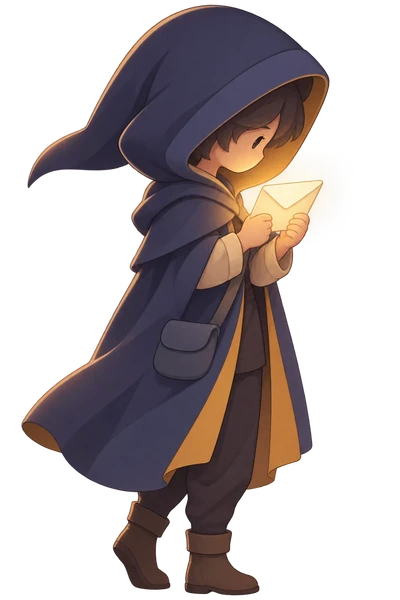
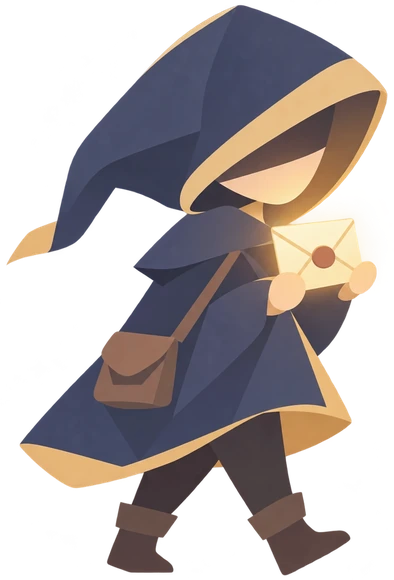
New traveller illustration; slower portal title
- Traveller: second illustration (walking pose, face in the hood's
  shadow), cropped to the figure, 394x580 webp; letter glow and wax seal
  aligned to the drawn letter and seal; curtain shadow from the same image.
- Portal: the title gathers over 1.8 s (was 0.65 s), ENTER fades in after.

diff --git a/ui/threshold.html b/ui/threshold.html
@@ -84,15 +84,15 @@
     </g>
 
     <!-- The traveller's shadow on the curtain: light from the front, low and to the left; larger, behind and up to the right. -->
-    <g class="th-shadow" opacity=".17" filter="url(#thShadowF)"><image href="art/traveller.webp" x="560" y="114" width="380" height="570"/></g>
+    <g class="th-shadow" opacity=".17" filter="url(#thShadowF)"><image href="art/traveller.webp" x="542" y="131" width="374" height="551"/></g>
     <path class="th-floorshadow" d="M520 820 L604 820 L770 640 L700 640 Z" fill="#2B2825" opacity=".2" filter="url(#thSoft)"/>
 
     <!-- The traveller, lit from the front, holding the letter. When the door opens, they walk to it. -->
     <g class="th-walker"><g class="th-bobber"><g class="th-tilt">
-      <image href="art/traveller.webp" x="452" y="529" width="200" height="300"/>
-      <circle cx="596" cy="626" r="30" fill="url(#thLetter)" opacity=".55"/>
-      <circle class="th-glowpulse" cx="596" cy="626" r="40" fill="url(#thLetter)"/>
-      <circle id="thSeal" class="th-seal" cx="597" cy="628" r="4.6"/>
+      <image href="art/traveller.webp" x="442.5" y="538" width="197" height="290"/>
+      <circle cx="601" cy="663" r="30" fill="url(#thLetter)" opacity=".55"/>
+      <circle class="th-glowpulse" cx="601" cy="663" r="40" fill="url(#thLetter)"/>
+      <circle id="thSeal" class="th-seal" cx="605" cy="671" r="5.6"/>
     </g></g></g>
 
     <!-- Finale: the five doors of the journey side by side. Filled when all five Universes are crossed. -->

diff --git a/site/site.css b/site/site.css
@@ -105,8 +105,8 @@ main{flex:1 1 auto}
 @keyframes tv-gather{from{letter-spacing:.22em;opacity:0}to{letter-spacing:.08em;opacity:1}}
 @keyframes tv-fade{from{opacity:0}to{opacity:1}}
 @keyframes tv-colour{from{color:var(--ink)}}
-.portal h1{animation:tv-gather .65s var(--tv-ease) both}
-.portal .btn{animation:tv-fade .45s var(--tv-ease) .7s both}
+.portal h1{animation:tv-gather 1.8s var(--tv-ease) .2s both}
+.portal .btn{animation:tv-fade .9s var(--tv-ease) 1.9s both}
 .btn svg{transition:transform .25s var(--tv-ease)}
 .btn:hover svg,.btn:focus-visible svg{transform:translateX(4px)}
 .mv span{animation:tv-colour .45s var(--tv-ease) both}

diff --git a/THIRD_PARTY.md b/THIRD_PARTY.md
@@ -28,4 +28,4 @@ Both files are unmodified copies from https://github.com/google/fonts (ofl/anton
 
 ## Traveller illustration
 
-- `ui/art/traveller.webp`: the threshold traveller, drawn by the project team and polished with AI assistance (2026-11-24); resized to 400 × 600 from the 1024 × 1536 original, otherwise unchanged.
+- `ui/art/traveller.webp`: the threshold traveller, drawn by the project team and polished with AI assistance (2026-11-24); second version 2026-11-24, cropped to the figure and resized to 394 × 580 from the 1226 × 1283 original, otherwise unchanged.
